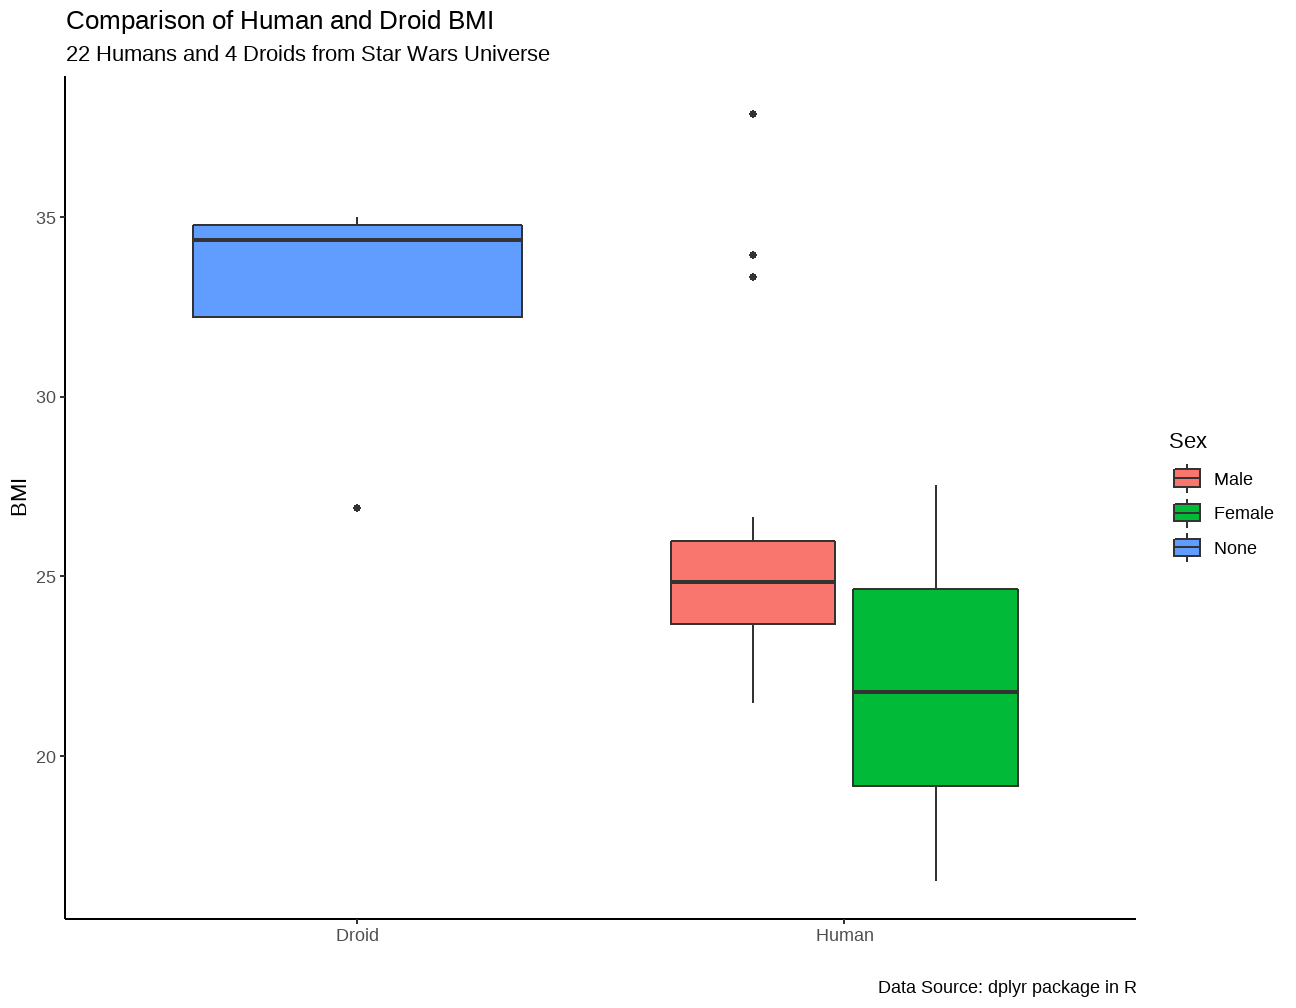
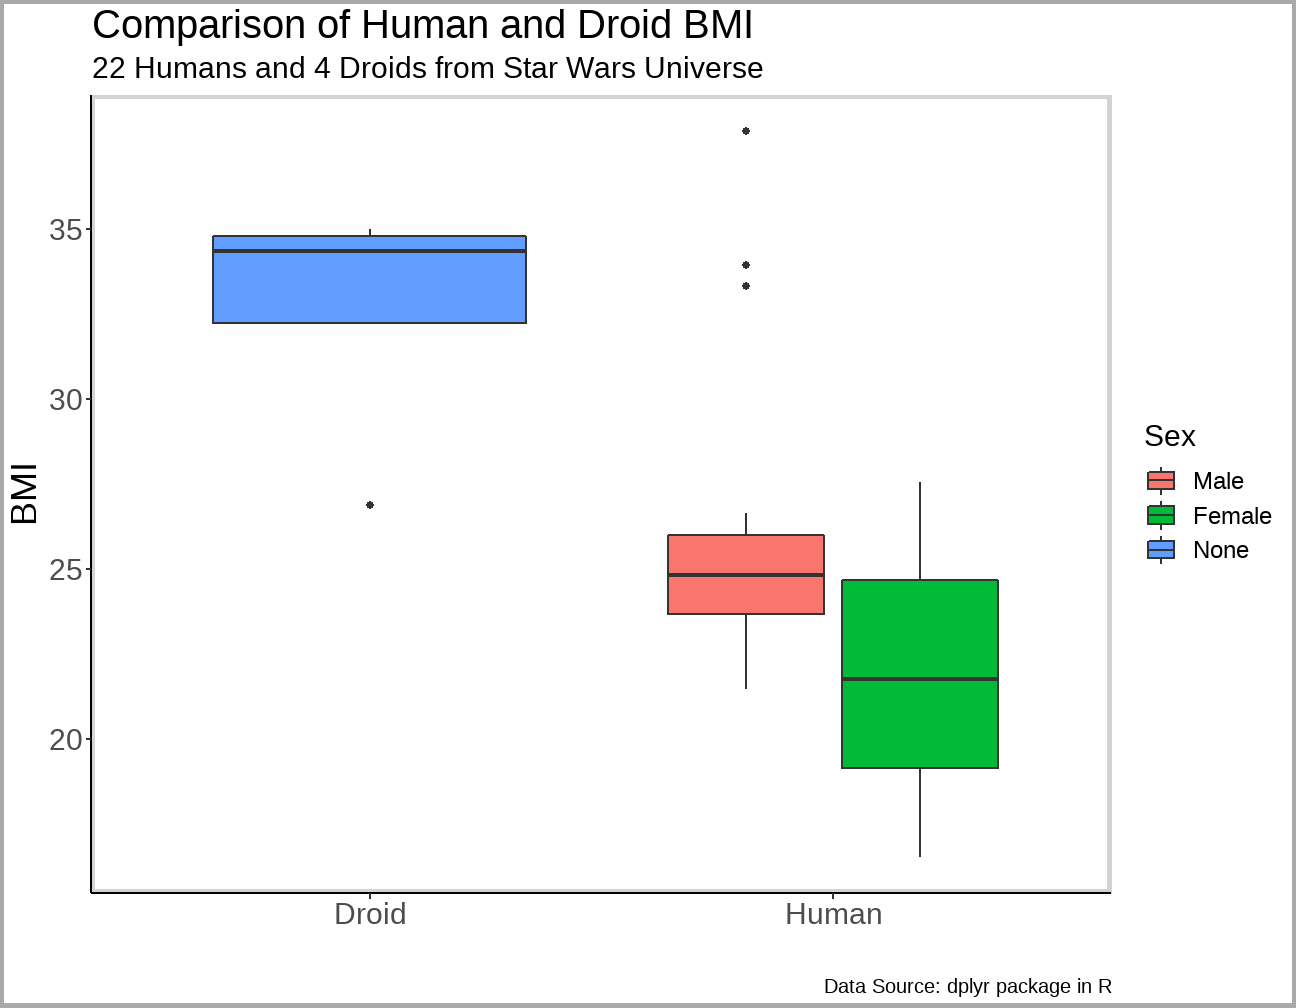
R plot update

diff --git a/docs/docs.html b/docs/docs.html
@@ -1049,7 +1049,17 @@ sw_boxplot4 &lt;- my_starwars_plt |&gt;
   labs(title="Comparison of Human and Droid BMI",
        subtitle="22 Humans and 4 Droids from Star Wars Universe",
        caption="Data Source: dplyr package in R",
-       x="",y="BMI", fill="Sex")
+       x="",y="BMI", fill="Sex") + 
+  
+  theme(plot.title = element_text(size = 20),
+        plot.subtitle = element_text(size = 15),
+        axis.title = element_text(size=18),
+        axis.text = element_text(size=15),
+        plot.caption = element_text(size = 10),
+        legend.text = element_text(size = 12),
+        legend.title = element_text(size = 15),
+        panel.border = element_rect(colour = "lightgrey", fill=NA, size=2),
+        plot.background = element_rect(colour = "darkgrey", fill=NA, size=2))
 ```
 
 ]
